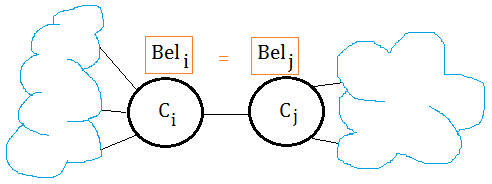
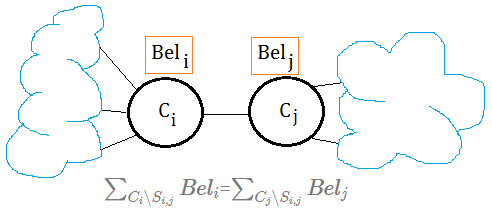
update _posts/2018-11-12-bayesian-ml-clique-tree-calibrated.md with calibrated clique tree illustration, 9

diff --git a/_posts/2018-11-12-bayesian-ml-clique-tree-calibrated.md b/_posts/2018-11-12-bayesian-ml-clique-tree-calibrated.md
@@ -97,6 +97,21 @@ The quantitative evaluation of messages from one clique to its adjacent clique a
 >$\sum_{A,B}Bel_{1}$=$\sum_{E}Bel_{2}$  
 >$\sum_{A,B}Bel_{1}$=$\sum_{D,F}Bel_{3}$  
 >
+><font color="DeepSkyBlue">[4]</font>
+><font color="OrangeRed">The expression of the calibrated message</font>  
+![]({{ site.github.repo }}{{ site.baseurl }}/images/pic/2018-11-12-bayesian-ml-clique-tree-calibrated-message.png "calibrated message")
+>&#10112;take $\mu_{i,j}$ to be the <font color="Red">calibrated</font> message from clique $i$ to clique $j$.  
+>&#10113;still using the same example, $\mu_{1,2}$ is the <font color="Red">calibrated</font> message from clique $1$ to clique $2$, then  
+>$\mu_{1,2}$  
+>=$\sum_{A,B}Bel_{1}$  
+>=$\sum_{A,B}f_{3}(C)\cdot f_{2}(C)\cdot f_{1}(A,B,C)$  
+>=$\sum_{A,B}f_{3}(C)\cdot f_{1}(A,B,C)\cdot f_{2}(C)$  
+>=$(\sum_{A,B}f_{3}(C)\cdot f_{1}(A,B,C))\cdot (\sum_{E}P(E\vert C))$  
+>=$\delta_{1,2}\cdot\delta_{2,1}$  
+>, where $delta_{i,j}$ is the <font color="Red">before-calibrated</font> message propagated from clique $i$ to clique $j$.  
+>&#10114;$\mu_{1,3}$=$\delta_{1,3}\cdot\delta_{3,1}$ could also be proved, by mathematics induction, we can claim that <font color="DeepPink">$\mu_{i,j}$=$\delta_{i,j}\cdot\delta_{j,i}$</font>.  
+>
+><font color="#C20000">The <font color="DeepPink">calibrated message</font> from clique $i$ to clique $j$ is the joint probability function of the <font color="DeepPink">before-calibrated</font> message from clique $i$ to clique $j$ and the <font color="DeepPink">before-calibrated</font> message from clique $j$ to clique $i$.</font>  
 
 ### Addendum
 >&#10112;[Graphical Models - Lecture 11: Clique Trees, Andrew McCallum, mccallum@cs.umass.edu](https://people.cs.umass.edu/~mccallum/courses/gm2011/11-clique-trees.pdf)  
